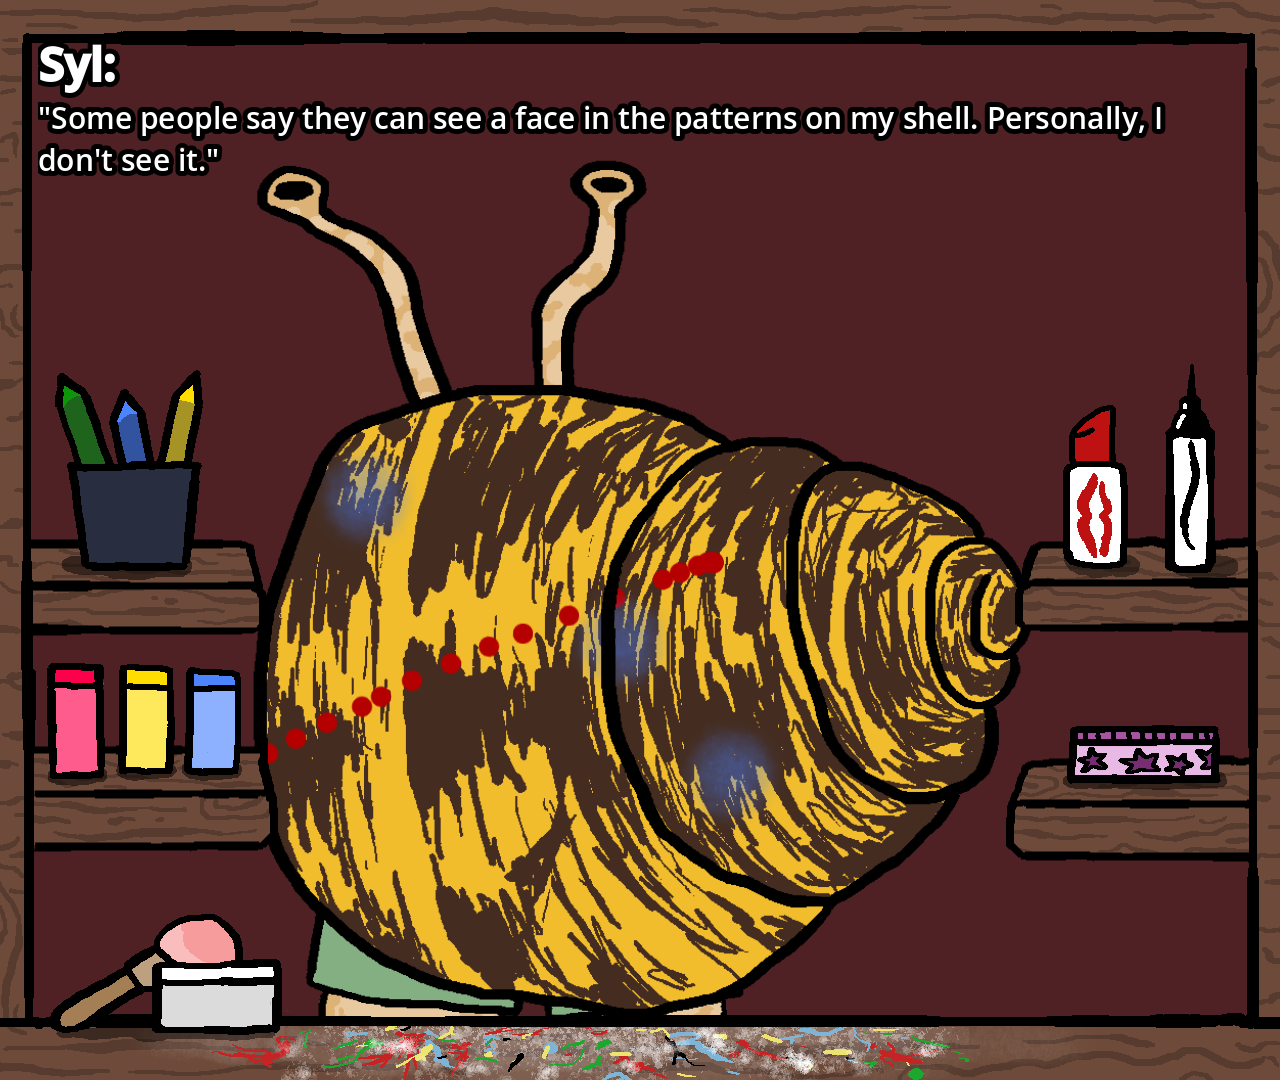
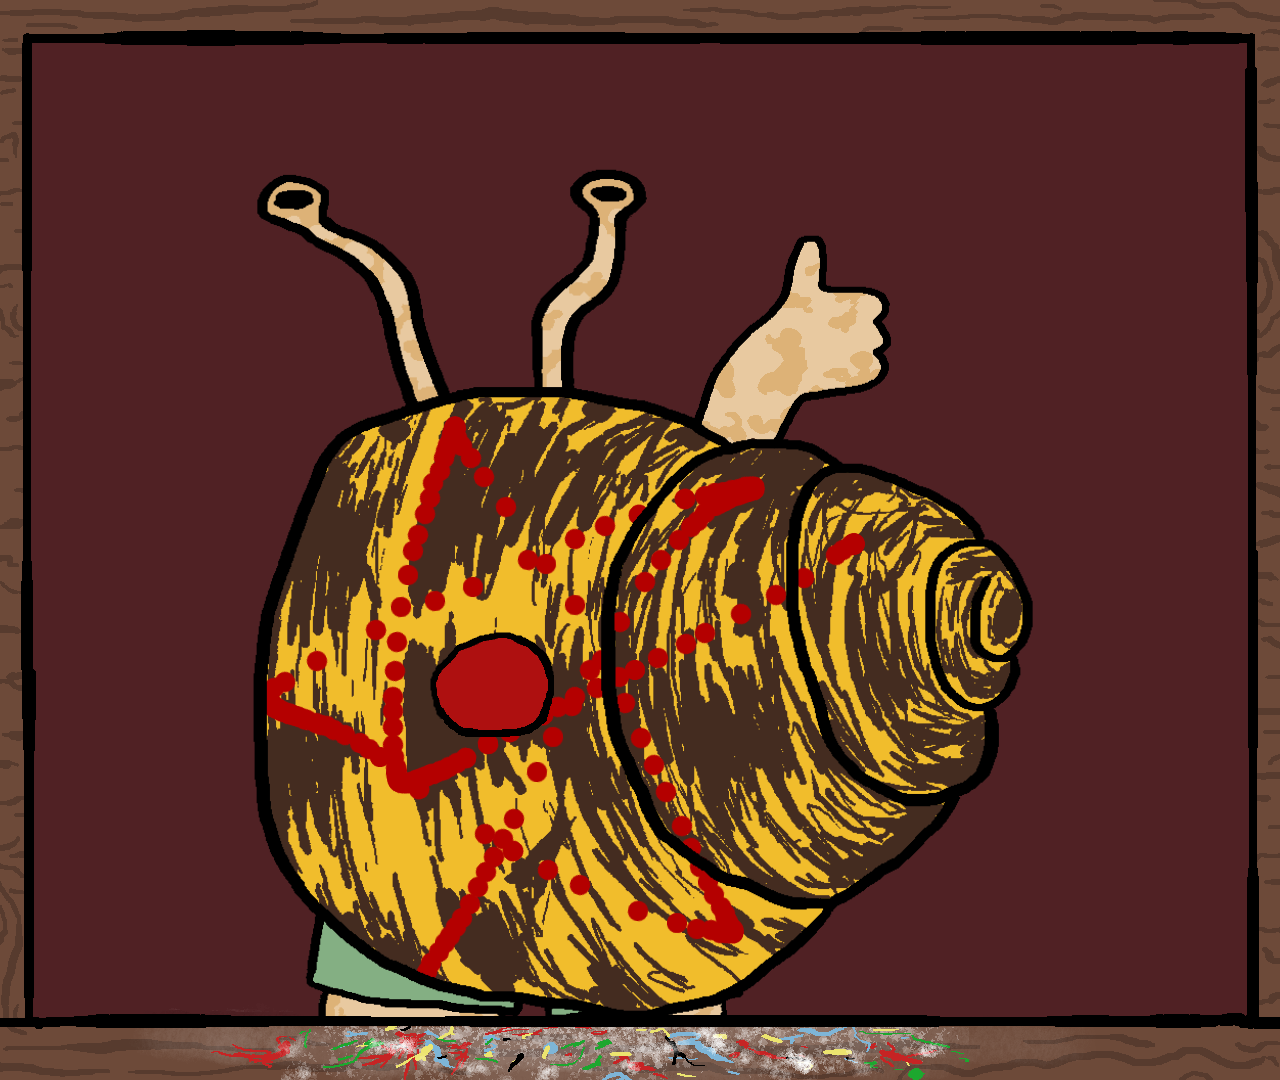
small fixes in funny faces

Changed region(s): [[0.0, 0.0306, 1.0, 0.9472], [0.7812, 0.6722, 1.0, 0.825], [0.0312, 0.825, 0.2188, 0.9778]]

diff --git a/funnyfaces/scripts/gamemanager.cs b/funnyfaces/scripts/gamemanager.cs
@@ -59,7 +59,6 @@ public partial class gamemanager : Node2D
 
     public async Task TransitionStart()
     {
-        TakePhoto();
         canHintBeVis = false;
         noseArea.Visible = false;
         Audiomanager.Instance.PlaySound(0);
@@ -67,6 +66,7 @@ public partial class gamemanager : Node2D
         if (currentChar == characters.Count - 1) { Audiomanager.Instance.SwitchToCreditsMusic(); }
         await ToSignal(GetTree().CreateTimer(smileDelay), Timer.SignalName.Timeout);
         smiles[currentChar].Visible = true;
+        await TakePhoto();
         blackhole.Position = GetNode<itemmanager>("CursorManager/Item Control").nose.Position + new Vector2(0, 15);
         blackhole.Visible = true;
         Tween tween = GetTree().CreateTween().SetEase(Tween.EaseType.InOut);
@@ -96,12 +96,13 @@ public partial class gamemanager : Node2D
         AddChild(inst);
     }
 
-    private void TakePhoto()
+    private async Task TakePhoto()
     {
         // turn off non-photo elements
         //backgroundImages[currentChar].Visible = true;
         for (int i = 0; i < controlNPE.Count; i++) { controlNPE[i].Visible = false; }
         hint.Visible = false;
+        await ToSignal(GetTree().CreateTimer(0.1), Timer.SignalName.Timeout);
         var img = GetViewport().GetTexture().GetImage();
         img.SavePng("res://images/char_portrait_" + currentChar + ".png");
         // turn on non-photo elements
